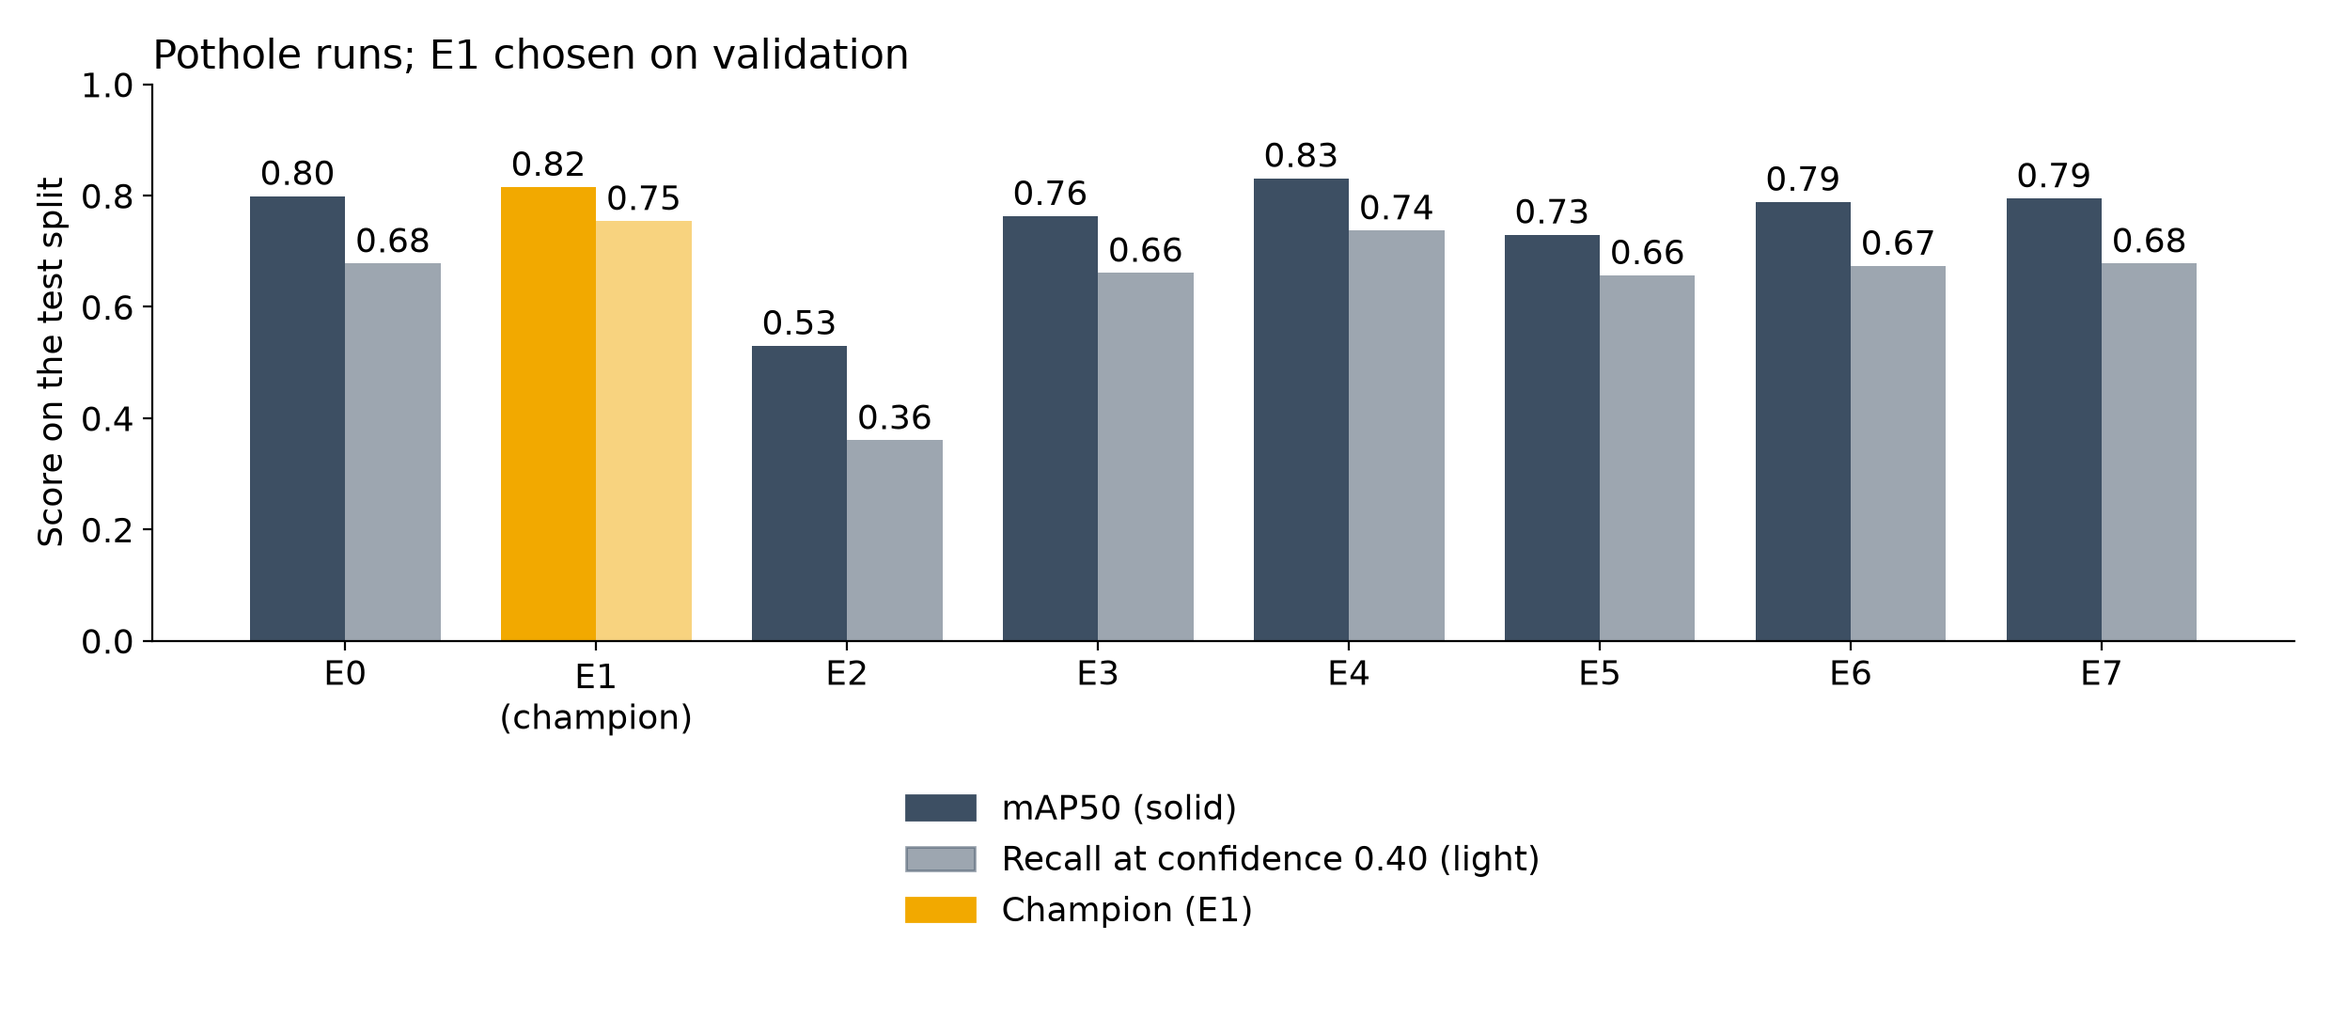
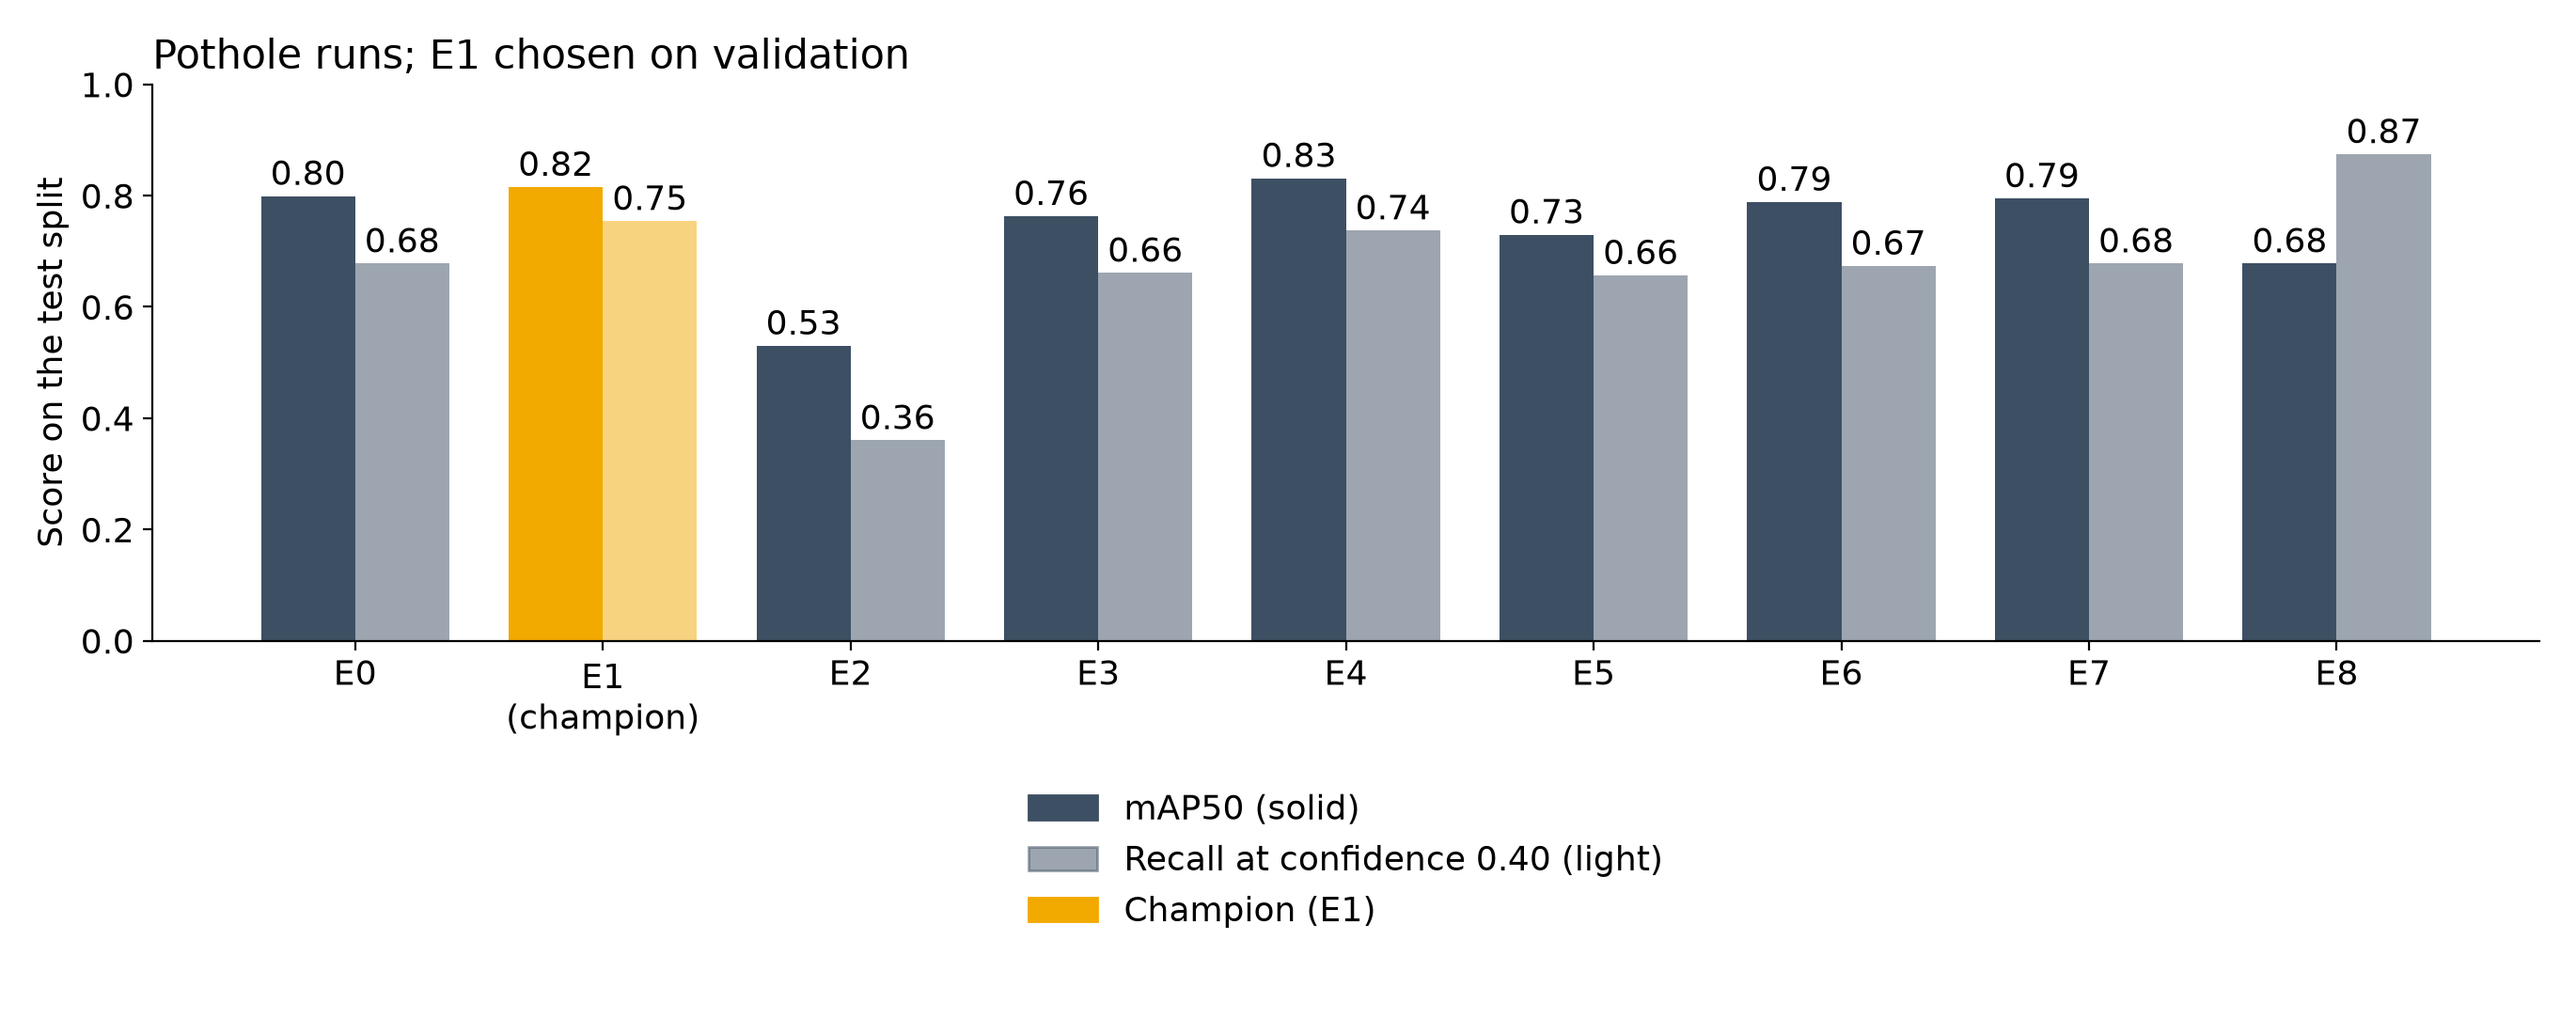
Add runs E8 and re-export the pothole results

diff --git a/docs/TASKS.md b/docs/TASKS.md
@@ -107,7 +107,7 @@ Never cut: E0–E5 with their result files, restroom R0, R1, R6 and one fine-tun
 | [x] | [M-7](https://github.com/tairqaldy/qarau-ict-final-1st-trimester/issues/56) | P0 | Run E4 optimizer **Done: Tair, 11 November 2026. E4 on the Apple M5 GPU: validation mAP50 0.828, test mAP50 0.831 ([E4.json](../ml/results/runs/E4.json)).** | M-3 | Same | 45 m |
 | [x] | [M-8](https://github.com/tairqaldy/qarau-ict-final-1st-trimester/issues/57) | P0 | Run E5 standard augmentations off **Done: Tair, 11 November 2026. E5 on the Apple M5 GPU: validation mAP50 0.712, test mAP50 0.730 ([E5.json](../ml/results/runs/E5.json)).** | M-3 | Same | 35 m |
 | [x] | [M-10](https://github.com/tairqaldy/qarau-ict-final-1st-trimester/issues/58) | P0 | Run E7 extra P2 detection scale. Write three sentences on what the P2 head adds in `ml/README.md` **Done: Tair, 11 November 2026. E7 on the Apple M5 GPU: validation mAP50 0.789, test mAP50 0.795 ([E7.json](../ml/results/runs/E7.json)).** | M-3 | Same, plus the explanation | 1 h |
-| [ ] | [M-11](https://github.com/tairqaldy/qarau-ict-final-1st-trimester/issues/59) | P0 | Apply the selection rule to E1–E7 (whichever ran), fill in E8 in `train.py`, train it **Claimed: Tair, 11 November 2026 16:18 Almaty, branch `model/e8-settings`.** | M-4..M-10 | `jolscan-e8.pt` in Drive | 60 m |
+| [x] | [M-11](https://github.com/tairqaldy/qarau-ict-final-1st-trimester/issues/59) | P0 | Apply the selection rule to E1–E7 (whichever ran), fill in E8 in `train.py`, train it **Done: Tair, 11 November 2026. E8 on the Apple M5 GPU: validation mAP50 0.824, test mAP50 0.799 ([E8.json](../ml/results/runs/E8.json)).** | M-4..M-10 | `jolscan-e8.pt` in Drive | 60 m |
 | [ ] | [M-12](https://github.com/tairqaldy/qarau-ict-final-1st-trimester/issues/60) | P0 | Run `ml/export_results.py` after E0–E5, and again after E8. Commit the CSV and `web/data/experiments.json` **Claimed: Tair. First export done with E0 (11 November); tick after the export with E8.** | M-3..M-8, M-11 | Model page shows real numbers, the "Demo data" badge is gone | 20 m |
 | [ ] | [M-19](https://github.com/tairqaldy/qarau-ict-final-1st-trimester/issues/61) | P0 | Operating point of the final model: precision, recall, F1 at confidence 0.40 on test, with true-positive, false-positive and false-negative counts **Claimed: Tair, 11 November 2026 16:23 Almaty, branch `model/m19-operating-point`.** | M-11 | Row "operating point" in the results table | 30 m |
 | [ ] | [M-13](https://github.com/tairqaldy/qarau-ict-final-1st-trimester/issues/62) | P0 | Plots for the deck: bar chart of mAP50 and recall per run, training curves for E0, E2, E5, confusion matrix and PR curve of the final model **First version: Tair, 11 November 2026. `ml/plots.py` and four figures for E0 (bars, loss curves, PR curve, confusion at 0.40); rerun after E8.** | M-12 | PNG files in `ml/results/` | 45 m |
